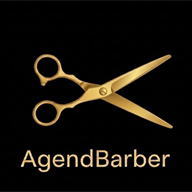
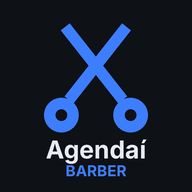
Renomeia o app para Agendaí Barber
Novo nome no menu, título, manifest e ícones (refeitos na cor nova).
Remove imagens que não eram usadas.

Claude-Session: https://claude.ai/code/session_01Y1wVKk5LSZm3Zkr9z9grxj

Changed region(s): [[0.0938, 0.0938, 0.9062, 0.9375]]

diff --git a/index.html b/index.html
@@ -3,14 +3,14 @@
 <head>
   <meta charset="UTF-8">
   <meta name="viewport" content="width=device-width, initial-scale=1.0">
-  <meta name="description" content="Barbearia Premium - Agende seu horário online. Cortes modernos, barba e muito mais com os melhores profissionais.">
-  <title>Barbearia Premium | Agendamento Online</title>
+  <meta name="description" content="Agende seu horário online. Cortes modernos, barba e muito mais com os melhores profissionais.">
+  <title>Agendaí Barber | Agende seu horário</title>
   <link rel="stylesheet" href="css/style.css?v=12">
   <link rel="stylesheet" href="css/ui-components.css?v=12">
-  <link rel="icon" href="img/icon-192.png" type="image/png">
-  <link rel="manifest" href="manifest.json?v=5">
-  <link rel="apple-touch-icon" sizes="192x192" href="img/icon-192.png">
-  <link rel="apple-touch-icon" sizes="512x512" href="img/icon-512.png">
+  <link rel="icon" href="img/icon-192.png?v=2" type="image/png">
+  <link rel="manifest" href="manifest.json?v=6">
+  <link rel="apple-touch-icon" sizes="192x192" href="img/icon-192.png?v=2">
+  <link rel="apple-touch-icon" sizes="512x512" href="img/icon-512.png?v=2">
   <meta name="theme-color" content="#0e1116">
 </head>
 <body>
@@ -18,7 +18,7 @@
   <!-- ==================== NAVBAR ==================== -->
   <nav class="navbar" id="navbar">
     <div class="container">
-      <a href="#" class="navbar-brand" data-config="marca">AgendBarber</a>
+      <a href="#" class="navbar-brand" data-config="marca">Agendaí Barber</a>
       <div class="navbar-links" id="navLinks">
         <a href="#inicio">Início</a>
         <a href="#servicos">Nossos Serviços</a>

diff --git a/js/config.js b/js/config.js
@@ -12,10 +12,10 @@ window.APP_CONFIG = {
   // --- Identidade ---
   nome: 'Sua Barbearia',                // Nome completo (Google Agenda, painel)
   nomeCurto: 'Sua Barbearia',           // Nome curto (rodapé e menu do admin)
-  marca: 'AgendBarber',                  // Texto do logo no menu superior
+  marca: 'Agendaí Barber',               // Texto do logo no menu superior
   logoHero: 'img/sua-logo.svg?v=2',         // Coloque o logo da barbearia em img/ e troque aqui
   corDestaque: '#3d7eff',               // Cor dos botões, preços e detalhes (formato #rrggbb)
-  tituloPagina: 'Barbearia Premium | Agendamento Online',
+  tituloPagina: 'Agendaí Barber | Agende seu horário',
   descricaoPagina: 'Agende seu horário online. Cortes modernos, barba e muito mais com os melhores profissionais.',
   textoCatalogo: 'Barbearia, massoterapia e estética em um só lugar. Confira tudo o que oferecemos.',
 

diff --git a/sw.js b/sw.js
@@ -1,9 +1,9 @@
 // ==========================================
-// Service Worker - Barbearia Premium
+// Service Worker - Agendaí Barber
 // Versão com suporte a Push Notifications
 // ==========================================
 
-const CACHE_NAME = 'barbearia-cache-v22';
+const CACHE_NAME = 'barbearia-cache-v23';
 const urlsToCache = [
   './',
   './index.html',
@@ -22,7 +22,7 @@ const urlsToCache = [
   './js/ui-components.js',
   './img/icon-192.png',
   './img/icon-512.png',
-  './img/agendbarber_icon.png'
+  './img/agendai-icon.png'
 ];
 
 // --- Install ---
